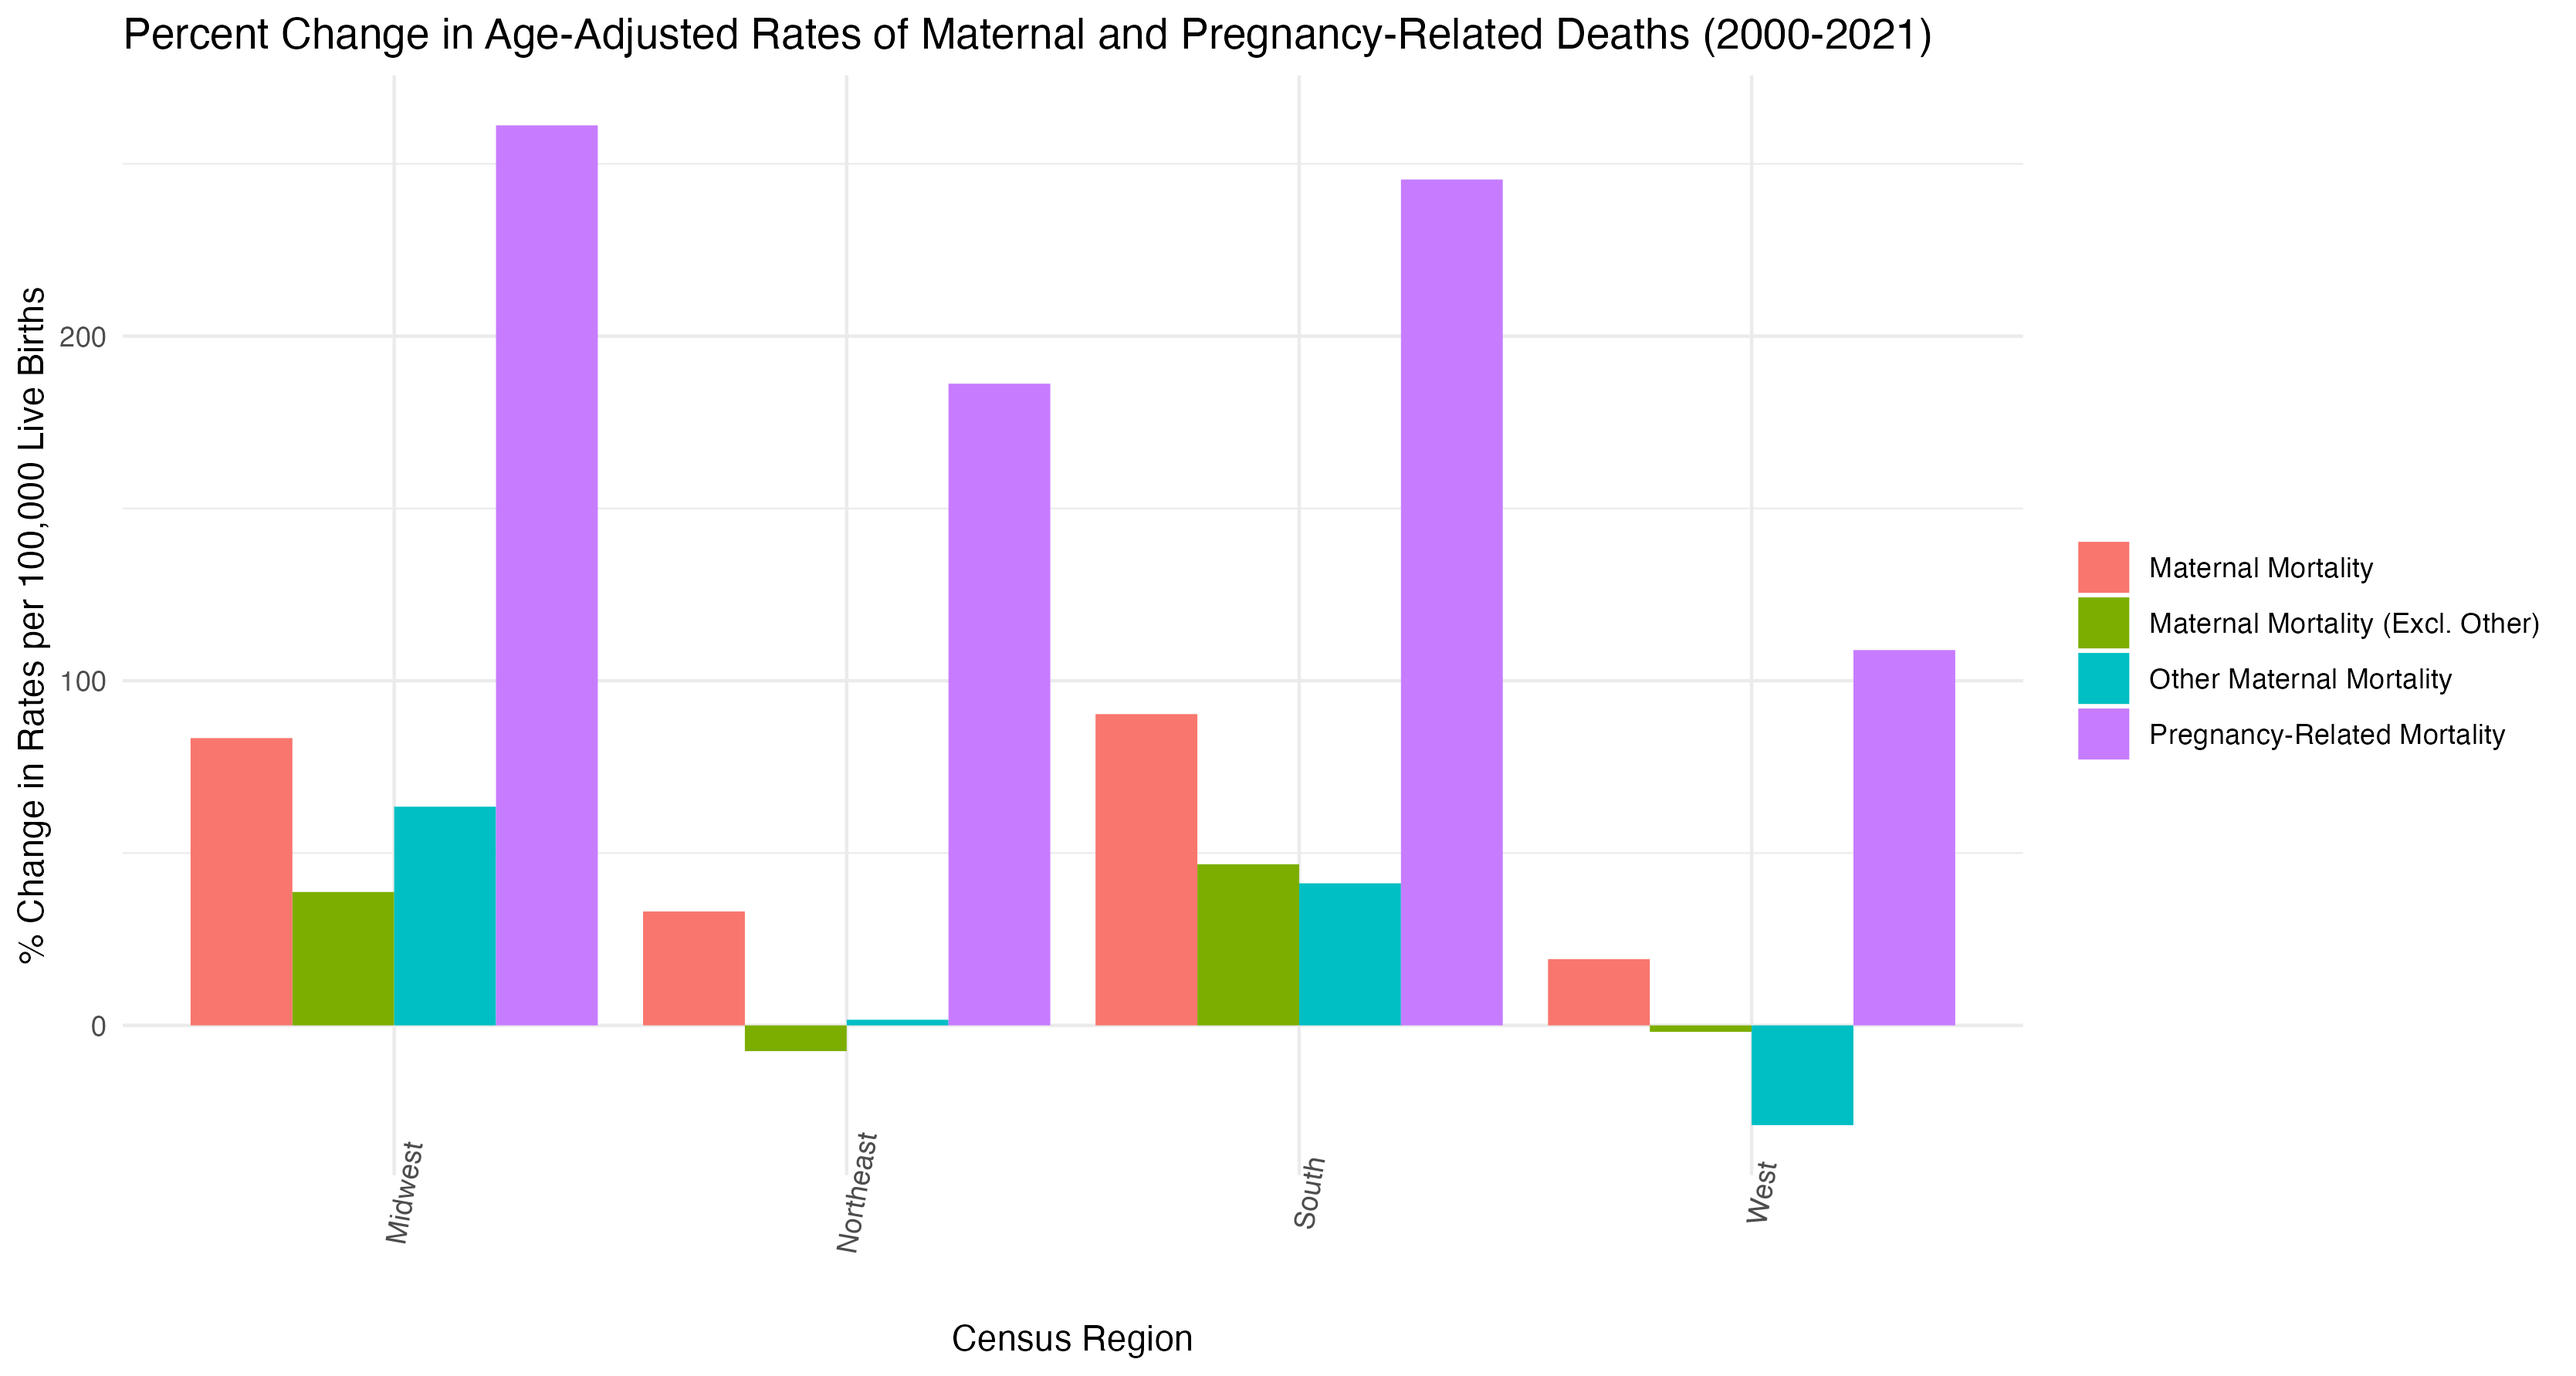
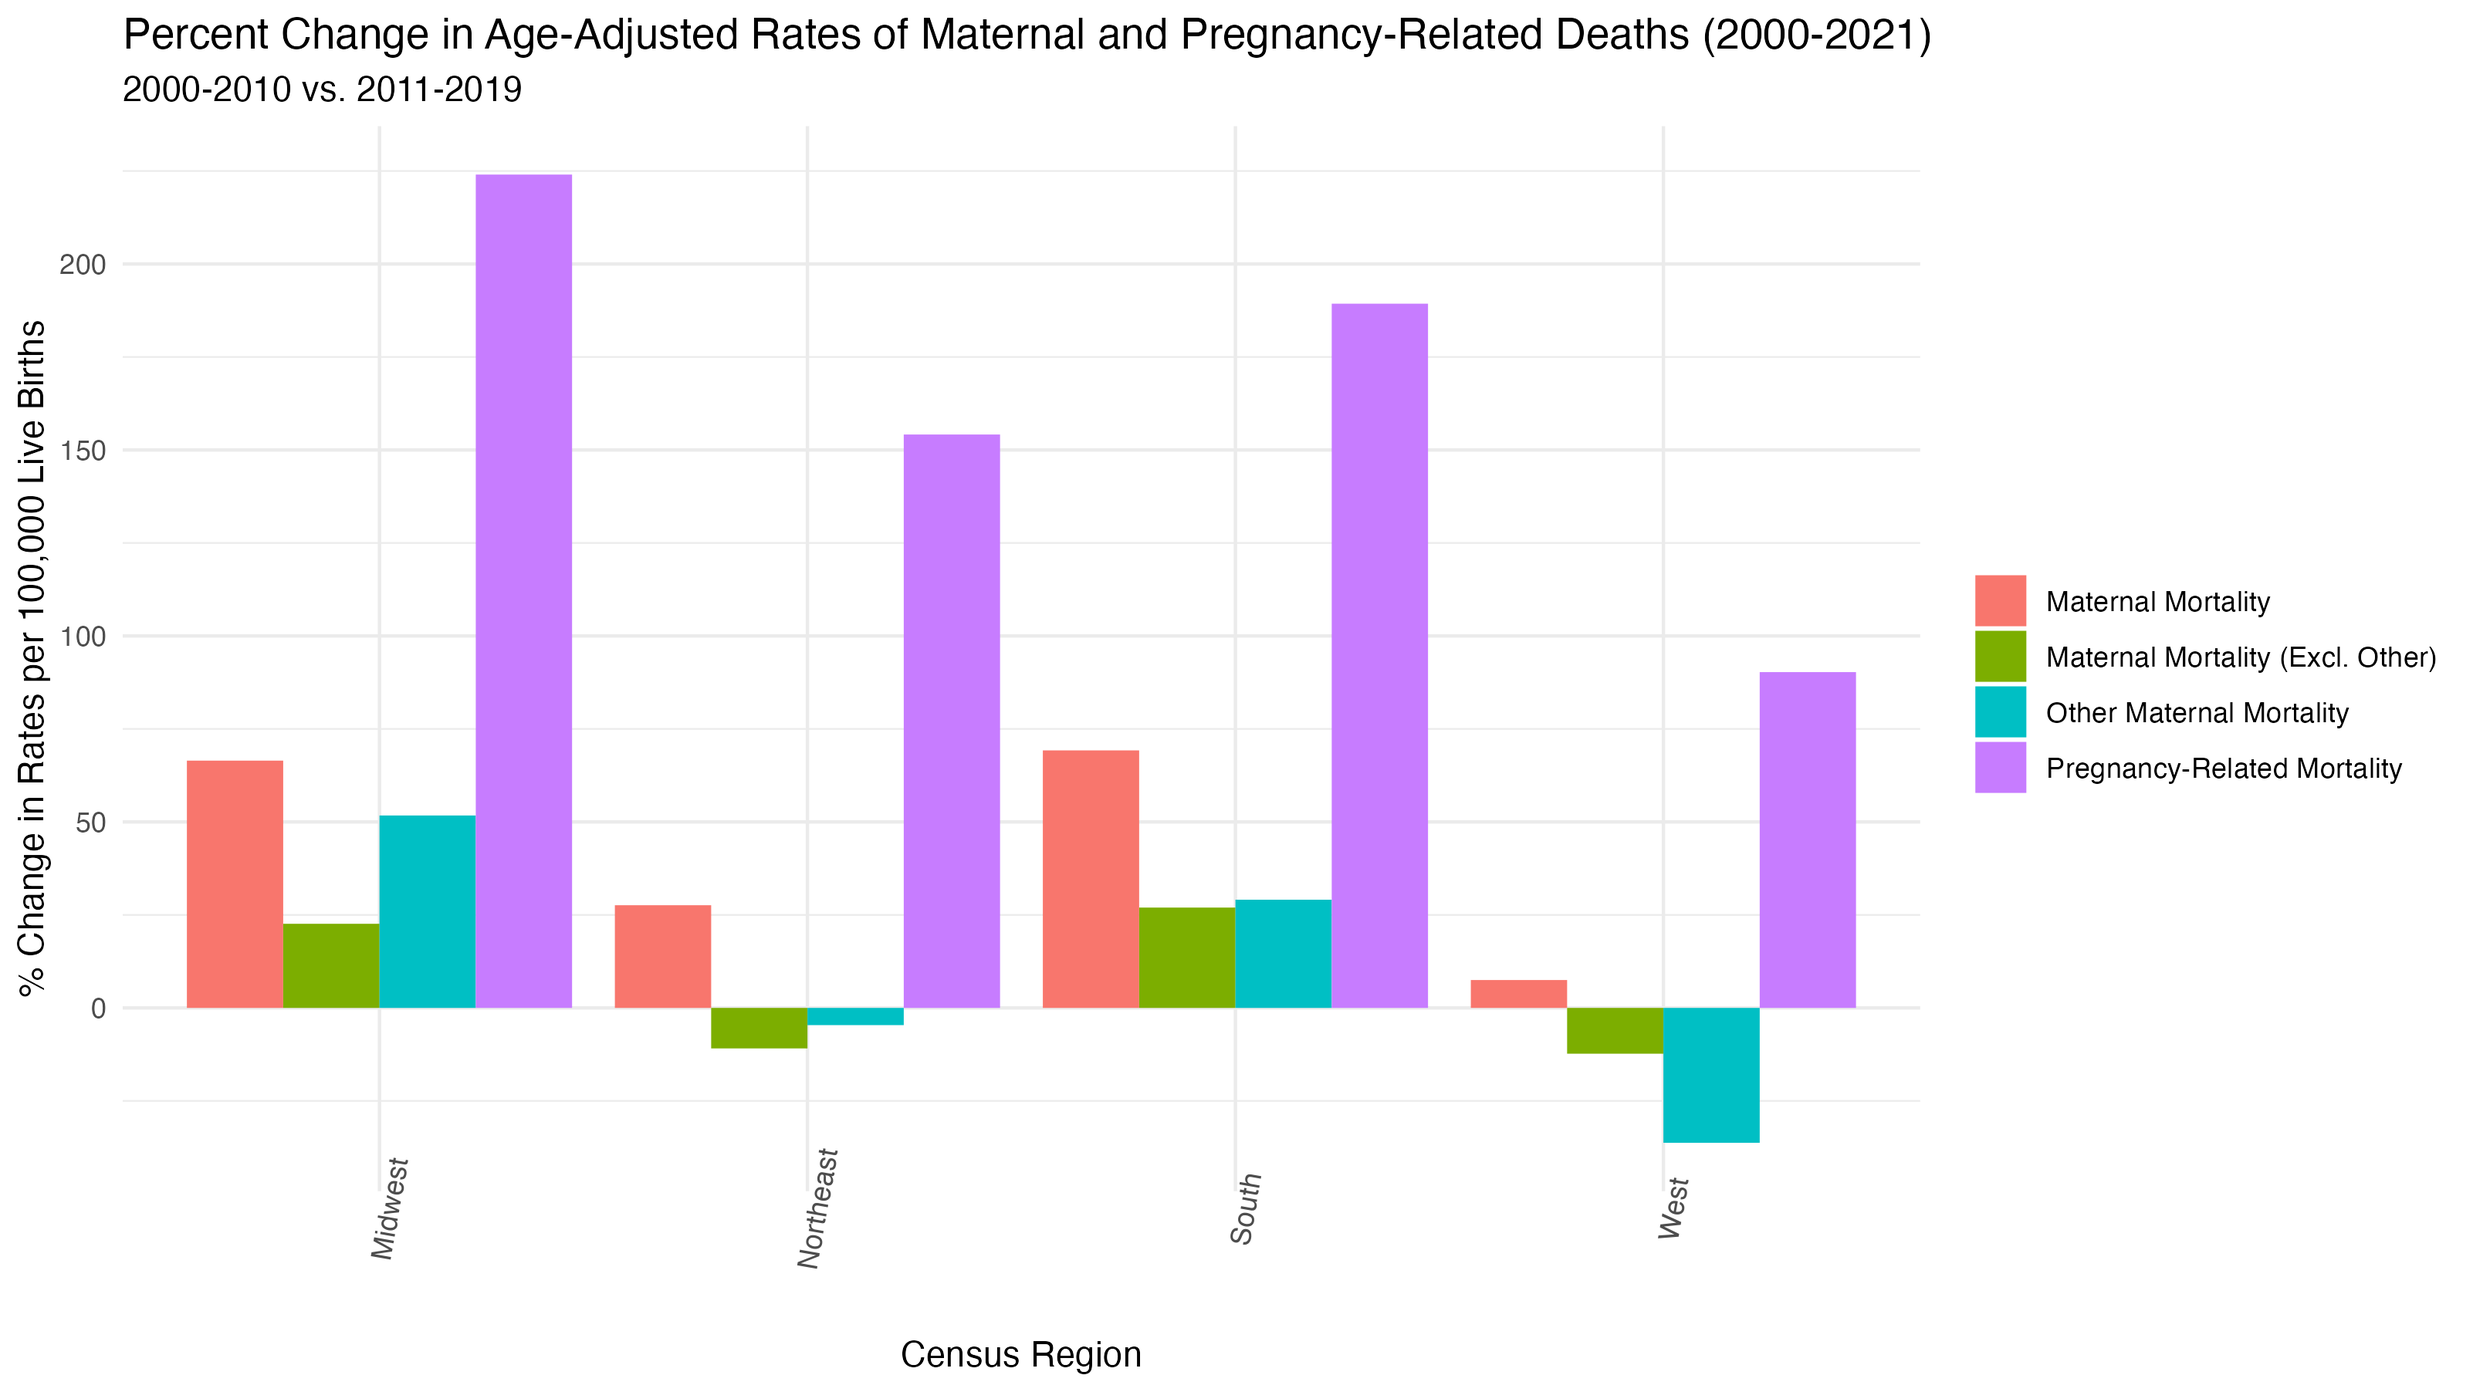
Update census charts

diff --git a/data/README.md b/data/README.md
@@ -117,10 +117,15 @@ The following extractions are used to compare age-adjusted estimations in census
 - Other causes (2011-2017): https://wonder.cdc.gov/controller/saved/D77/D349F467
 - MMR no other (2011-2017): https://wonder.cdc.gov/controller/saved/D77/D349F469
 
-- All MMR (2018-2021): https://wonder.cdc.gov/controller/saved/D157/D349F482
-- PRMR (2018-2021): https://wonder.cdc.gov/controller/saved/D157/D349F481
-- Other causes (2018-2021): https://wonder.cdc.gov/controller/saved/D157/D349F483
-- MMR no other (2018-2021): https://wonder.cdc.gov/controller/saved/D157/D349F484
+- All MMR (2018-2019): https://wonder.cdc.gov/controller/saved/D157/D350F337
+- PRMR (2018-2019): https://wonder.cdc.gov/controller/saved/D157/D350F338
+- Other causes (2018-2019): https://wonder.cdc.gov/controller/saved/D157/D350F341
+- MMR no other (2018-2019): https://wonder.cdc.gov/controller/saved/D157/D350F343
+
+- All MMR (2020-2021): https://wonder.cdc.gov/controller/saved/D157/D350F340
+- PRMR (2020-2021): https://wonder.cdc.gov/controller/saved/D157/D350F339
+- Other causes (2020-2021): https://wonder.cdc.gov/controller/saved/D157/D350F342
+- MMR no other (2020-2021): https://wonder.cdc.gov/controller/saved/D157/D350F346
 
 - Natality (2000-2002): https://wonder.cdc.gov/controller/saved/D10/D349F472
 - Natality (2003-2006): https://wonder.cdc.gov/controller/saved/D27/D349F471
